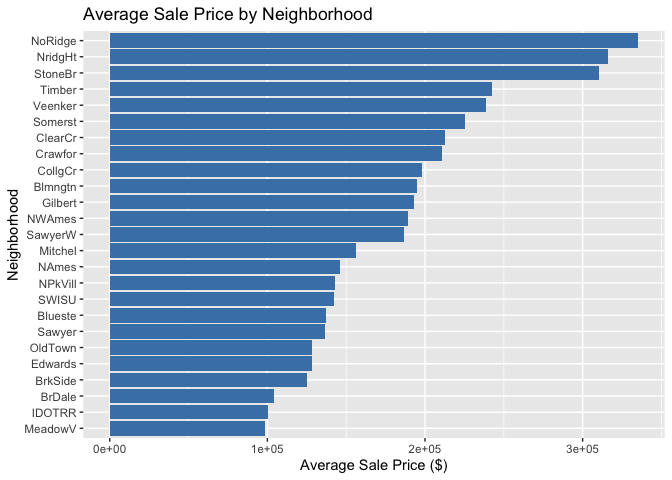
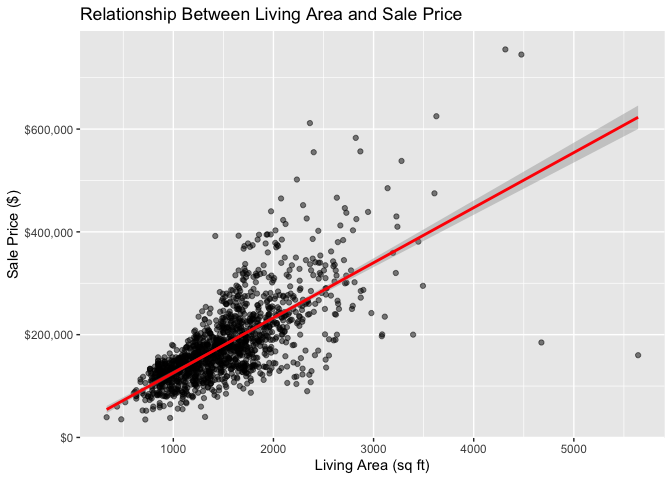
Updated charts

diff --git a/README.md b/README.md
@@ -35,99 +35,10 @@ ames <- read_csv("train.csv")
     ## ℹ Specify the column types or set `show_col_types = FALSE` to quiet this message.
 
 ``` r
-glimpse(ames)
-```
-
-    ## Rows: 1,460
-    ## Columns: 81
-    ## $ Id            <dbl> 1, 2, 3, 4, 5, 6, 7, 8, 9, 10, 11, 12, 13, 14, 15, 16, 1…
-    ## $ MSSubClass    <dbl> 60, 20, 60, 70, 60, 50, 20, 60, 50, 190, 20, 60, 20, 20,…
-    ## $ MSZoning      <chr> "RL", "RL", "RL", "RL", "RL", "RL", "RL", "RL", "RM", "R…
-    ## $ LotFrontage   <dbl> 65, 80, 68, 60, 84, 85, 75, NA, 51, 50, 70, 85, NA, 91, …
-    ## $ LotArea       <dbl> 8450, 9600, 11250, 9550, 14260, 14115, 10084, 10382, 612…
-    ## $ Street        <chr> "Pave", "Pave", "Pave", "Pave", "Pave", "Pave", "Pave", …
-    ## $ Alley         <chr> NA, NA, NA, NA, NA, NA, NA, NA, NA, NA, NA, NA, NA, NA, …
-    ## $ LotShape      <chr> "Reg", "Reg", "IR1", "IR1", "IR1", "IR1", "Reg", "IR1", …
-    ## $ LandContour   <chr> "Lvl", "Lvl", "Lvl", "Lvl", "Lvl", "Lvl", "Lvl", "Lvl", …
-    ## $ Utilities     <chr> "AllPub", "AllPub", "AllPub", "AllPub", "AllPub", "AllPu…
-    ## $ LotConfig     <chr> "Inside", "FR2", "Inside", "Corner", "FR2", "Inside", "I…
-    ## $ LandSlope     <chr> "Gtl", "Gtl", "Gtl", "Gtl", "Gtl", "Gtl", "Gtl", "Gtl", …
-    ## $ Neighborhood  <chr> "CollgCr", "Veenker", "CollgCr", "Crawfor", "NoRidge", "…
-    ## $ Condition1    <chr> "Norm", "Feedr", "Norm", "Norm", "Norm", "Norm", "Norm",…
-    ## $ Condition2    <chr> "Norm", "Norm", "Norm", "Norm", "Norm", "Norm", "Norm", …
-    ## $ BldgType      <chr> "1Fam", "1Fam", "1Fam", "1Fam", "1Fam", "1Fam", "1Fam", …
-    ## $ HouseStyle    <chr> "2Story", "1Story", "2Story", "2Story", "2Story", "1.5Fi…
-    ## $ OverallQual   <dbl> 7, 6, 7, 7, 8, 5, 8, 7, 7, 5, 5, 9, 5, 7, 6, 7, 6, 4, 5,…
-    ## $ OverallCond   <dbl> 5, 8, 5, 5, 5, 5, 5, 6, 5, 6, 5, 5, 6, 5, 5, 8, 7, 5, 5,…
-    ## $ YearBuilt     <dbl> 2003, 1976, 2001, 1915, 2000, 1993, 2004, 1973, 1931, 19…
-    ## $ YearRemodAdd  <dbl> 2003, 1976, 2002, 1970, 2000, 1995, 2005, 1973, 1950, 19…
-    ## $ RoofStyle     <chr> "Gable", "Gable", "Gable", "Gable", "Gable", "Gable", "G…
-    ## $ RoofMatl      <chr> "CompShg", "CompShg", "CompShg", "CompShg", "CompShg", "…
-    ## $ Exterior1st   <chr> "VinylSd", "MetalSd", "VinylSd", "Wd Sdng", "VinylSd", "…
-    ## $ Exterior2nd   <chr> "VinylSd", "MetalSd", "VinylSd", "Wd Shng", "VinylSd", "…
-    ## $ MasVnrType    <chr> "BrkFace", "None", "BrkFace", "None", "BrkFace", "None",…
-    ## $ MasVnrArea    <dbl> 196, 0, 162, 0, 350, 0, 186, 240, 0, 0, 0, 286, 0, 306, …
-    ## $ ExterQual     <chr> "Gd", "TA", "Gd", "TA", "Gd", "TA", "Gd", "TA", "TA", "T…
-    ## $ ExterCond     <chr> "TA", "TA", "TA", "TA", "TA", "TA", "TA", "TA", "TA", "T…
-    ## $ Foundation    <chr> "PConc", "CBlock", "PConc", "BrkTil", "PConc", "Wood", "…
-    ## $ BsmtQual      <chr> "Gd", "Gd", "Gd", "TA", "Gd", "Gd", "Ex", "Gd", "TA", "T…
-    ## $ BsmtCond      <chr> "TA", "TA", "TA", "Gd", "TA", "TA", "TA", "TA", "TA", "T…
-    ## $ BsmtExposure  <chr> "No", "Gd", "Mn", "No", "Av", "No", "Av", "Mn", "No", "N…
-    ## $ BsmtFinType1  <chr> "GLQ", "ALQ", "GLQ", "ALQ", "GLQ", "GLQ", "GLQ", "ALQ", …
-    ## $ BsmtFinSF1    <dbl> 706, 978, 486, 216, 655, 732, 1369, 859, 0, 851, 906, 99…
-    ## $ BsmtFinType2  <chr> "Unf", "Unf", "Unf", "Unf", "Unf", "Unf", "Unf", "BLQ", …
-    ## $ BsmtFinSF2    <dbl> 0, 0, 0, 0, 0, 0, 0, 32, 0, 0, 0, 0, 0, 0, 0, 0, 0, 0, 0…
-    ## $ BsmtUnfSF     <dbl> 150, 284, 434, 540, 490, 64, 317, 216, 952, 140, 134, 17…
-    ## $ TotalBsmtSF   <dbl> 856, 1262, 920, 756, 1145, 796, 1686, 1107, 952, 991, 10…
-    ## $ Heating       <chr> "GasA", "GasA", "GasA", "GasA", "GasA", "GasA", "GasA", …
-    ## $ HeatingQC     <chr> "Ex", "Ex", "Ex", "Gd", "Ex", "Ex", "Ex", "Ex", "Gd", "E…
-    ## $ CentralAir    <chr> "Y", "Y", "Y", "Y", "Y", "Y", "Y", "Y", "Y", "Y", "Y", "…
-    ## $ Electrical    <chr> "SBrkr", "SBrkr", "SBrkr", "SBrkr", "SBrkr", "SBrkr", "S…
-    ## $ `1stFlrSF`    <dbl> 856, 1262, 920, 961, 1145, 796, 1694, 1107, 1022, 1077, …
-    ## $ `2ndFlrSF`    <dbl> 854, 0, 866, 756, 1053, 566, 0, 983, 752, 0, 0, 1142, 0,…
-    ## $ LowQualFinSF  <dbl> 0, 0, 0, 0, 0, 0, 0, 0, 0, 0, 0, 0, 0, 0, 0, 0, 0, 0, 0,…
-    ## $ GrLivArea     <dbl> 1710, 1262, 1786, 1717, 2198, 1362, 1694, 2090, 1774, 10…
-    ## $ BsmtFullBath  <dbl> 1, 0, 1, 1, 1, 1, 1, 1, 0, 1, 1, 1, 1, 0, 1, 0, 1, 0, 1,…
-    ## $ BsmtHalfBath  <dbl> 0, 1, 0, 0, 0, 0, 0, 0, 0, 0, 0, 0, 0, 0, 0, 0, 0, 0, 0,…
-    ## $ FullBath      <dbl> 2, 2, 2, 1, 2, 1, 2, 2, 2, 1, 1, 3, 1, 2, 1, 1, 1, 2, 1,…
-    ## $ HalfBath      <dbl> 1, 0, 1, 0, 1, 1, 0, 1, 0, 0, 0, 0, 0, 0, 1, 0, 0, 0, 1,…
-    ## $ BedroomAbvGr  <dbl> 3, 3, 3, 3, 4, 1, 3, 3, 2, 2, 3, 4, 2, 3, 2, 2, 2, 2, 3,…
-    ## $ KitchenAbvGr  <dbl> 1, 1, 1, 1, 1, 1, 1, 1, 2, 2, 1, 1, 1, 1, 1, 1, 1, 2, 1,…
-    ## $ KitchenQual   <chr> "Gd", "TA", "Gd", "Gd", "Gd", "TA", "Gd", "TA", "TA", "T…
-    ## $ TotRmsAbvGrd  <dbl> 8, 6, 6, 7, 9, 5, 7, 7, 8, 5, 5, 11, 4, 7, 5, 5, 5, 6, 6…
-    ## $ Functional    <chr> "Typ", "Typ", "Typ", "Typ", "Typ", "Typ", "Typ", "Typ", …
-    ## $ Fireplaces    <dbl> 0, 1, 1, 1, 1, 0, 1, 2, 2, 2, 0, 2, 0, 1, 1, 0, 1, 0, 0,…
-    ## $ FireplaceQu   <chr> NA, "TA", "TA", "Gd", "TA", NA, "Gd", "TA", "TA", "TA", …
-    ## $ GarageType    <chr> "Attchd", "Attchd", "Attchd", "Detchd", "Attchd", "Attch…
-    ## $ GarageYrBlt   <dbl> 2003, 1976, 2001, 1998, 2000, 1993, 2004, 1973, 1931, 19…
-    ## $ GarageFinish  <chr> "RFn", "RFn", "RFn", "Unf", "RFn", "Unf", "RFn", "RFn", …
-    ## $ GarageCars    <dbl> 2, 2, 2, 3, 3, 2, 2, 2, 2, 1, 1, 3, 1, 3, 1, 2, 2, 2, 2,…
-    ## $ GarageArea    <dbl> 548, 460, 608, 642, 836, 480, 636, 484, 468, 205, 384, 7…
-    ## $ GarageQual    <chr> "TA", "TA", "TA", "TA", "TA", "TA", "TA", "TA", "Fa", "G…
-    ## $ GarageCond    <chr> "TA", "TA", "TA", "TA", "TA", "TA", "TA", "TA", "TA", "T…
-    ## $ PavedDrive    <chr> "Y", "Y", "Y", "Y", "Y", "Y", "Y", "Y", "Y", "Y", "Y", "…
-    ## $ WoodDeckSF    <dbl> 0, 298, 0, 0, 192, 40, 255, 235, 90, 0, 0, 147, 140, 160…
-    ## $ OpenPorchSF   <dbl> 61, 0, 42, 35, 84, 30, 57, 204, 0, 4, 0, 21, 0, 33, 213,…
-    ## $ EnclosedPorch <dbl> 0, 0, 0, 272, 0, 0, 0, 228, 205, 0, 0, 0, 0, 0, 176, 0, …
-    ## $ `3SsnPorch`   <dbl> 0, 0, 0, 0, 0, 320, 0, 0, 0, 0, 0, 0, 0, 0, 0, 0, 0, 0, …
-    ## $ ScreenPorch   <dbl> 0, 0, 0, 0, 0, 0, 0, 0, 0, 0, 0, 0, 176, 0, 0, 0, 0, 0, …
-    ## $ PoolArea      <dbl> 0, 0, 0, 0, 0, 0, 0, 0, 0, 0, 0, 0, 0, 0, 0, 0, 0, 0, 0,…
-    ## $ PoolQC        <chr> NA, NA, NA, NA, NA, NA, NA, NA, NA, NA, NA, NA, NA, NA, …
-    ## $ Fence         <chr> NA, NA, NA, NA, NA, "MnPrv", NA, NA, NA, NA, NA, NA, NA,…
-    ## $ MiscFeature   <chr> NA, NA, NA, NA, NA, "Shed", NA, "Shed", NA, NA, NA, NA, …
-    ## $ MiscVal       <dbl> 0, 0, 0, 0, 0, 700, 0, 350, 0, 0, 0, 0, 0, 0, 0, 0, 700,…
-    ## $ MoSold        <dbl> 2, 5, 9, 2, 12, 10, 8, 11, 4, 1, 2, 7, 9, 8, 5, 7, 3, 10…
-    ## $ YrSold        <dbl> 2008, 2007, 2008, 2006, 2008, 2009, 2007, 2009, 2008, 20…
-    ## $ SaleType      <chr> "WD", "WD", "WD", "WD", "WD", "WD", "WD", "WD", "WD", "W…
-    ## $ SaleCondition <chr> "Normal", "Normal", "Normal", "Abnorml", "Normal", "Norm…
-    ## $ SalePrice     <dbl> 208500, 181500, 223500, 140000, 250000, 143000, 307000, …
-
-``` r
 ames_clean <- ames %>%
-  select(SalePrice, GrLivArea, OverallQual, YearBuilt, Neighborhood, GarageCars) %>%
-  drop_na()
-
-ames_clean$Neighborhood <- as.factor(ames_clean$Neighborhood)
+select(SalePrice, GrLivArea, OverallQual, YearBuilt, Neighborhood, GarageCars) %>%
+drop_na() %>%
+mutate(Neighborhood = factor(Neighborhood))
 
 glimpse(ames_clean)
 ```
@@ -169,6 +80,65 @@ Converting Neighborhood to a factor for categorical analysis.
 
 Summary statistics:
 
+``` r
+summary_stats <- ames_clean %>%
+  summarise(
+    SalePrice_min = min(SalePrice),
+    SalePrice_q1 = quantile(SalePrice, 0.25),
+    SalePrice_median = median(SalePrice),
+    SalePrice_mean = mean(SalePrice),
+    SalePrice_q3 = quantile(SalePrice, 0.75),
+    SalePrice_max = max(SalePrice),
+
+    GrLivArea_min = min(GrLivArea),
+    GrLivArea_q1 = quantile(GrLivArea, 0.25),
+    GrLivArea_median = median(GrLivArea),
+    GrLivArea_mean = mean(GrLivArea),
+    GrLivArea_q3 = quantile(GrLivArea, 0.75),
+    GrLivArea_max = max(GrLivArea),
+
+    OverallQual_min = min(OverallQual),
+    OverallQual_q1 = quantile(OverallQual, 0.25),
+    OverallQual_median = median(OverallQual),
+    OverallQual_mean = mean(OverallQual),
+    OverallQual_q3 = quantile(OverallQual, 0.75),
+    OverallQual_max = max(OverallQual),
+
+    YearBuilt_min = min(YearBuilt),
+    YearBuilt_q1 = quantile(YearBuilt, 0.25),
+    YearBuilt_median = median(YearBuilt),
+    YearBuilt_mean = mean(YearBuilt),
+    YearBuilt_q3 = quantile(YearBuilt, 0.75),
+    YearBuilt_max = max(YearBuilt),
+
+    GarageCars_min = min(GarageCars),
+    GarageCars_q1 = quantile(GarageCars, 0.25),
+    GarageCars_median = median(GarageCars),
+    GarageCars_mean = mean(GarageCars),
+    GarageCars_q3 = quantile(GarageCars, 0.75),
+    GarageCars_max = max(GarageCars)
+  )
+
+summary_stats
+```
+
+    ## # A tibble: 1 × 30
+    ##   SalePrice_min SalePrice_q1 SalePrice_median SalePrice_mean SalePrice_q3
+    ##           <dbl>        <dbl>            <dbl>          <dbl>        <dbl>
+    ## 1         34900       129975           163000        180921.       214000
+    ## # ℹ 25 more variables: SalePrice_max <dbl>, GrLivArea_min <dbl>,
+    ## #   GrLivArea_q1 <dbl>, GrLivArea_median <dbl>, GrLivArea_mean <dbl>,
+    ## #   GrLivArea_q3 <dbl>, GrLivArea_max <dbl>, OverallQual_min <dbl>,
+    ## #   OverallQual_q1 <dbl>, OverallQual_median <dbl>, OverallQual_mean <dbl>,
+    ## #   OverallQual_q3 <dbl>, OverallQual_max <dbl>, YearBuilt_min <dbl>,
+    ## #   YearBuilt_q1 <dbl>, YearBuilt_median <dbl>, YearBuilt_mean <dbl>,
+    ## #   YearBuilt_q3 <dbl>, YearBuilt_max <dbl>, GarageCars_min <dbl>, …
+
+``` r
+summary_table <- summary_stats %>%
+  pivot_longer(everything(), names_to = "Statistic", values_to = "Value")
+```
+
 | Variable          | Min    | 1st Qu. | Median  | Mean    | 3rd Qu. | Max     |
 |-------------------|--------|---------|---------|---------|---------|---------|
 | SalePrice (\$)    | 34,900 | 129,975 | 163,000 | 180,921 | 214,000 | 755,000 |
@@ -179,8 +149,7 @@ Summary statistics:
 
 ## Exploration & Findings
 
-Question 1: Does the size of a house (GrLivArea) strongly affect its
-sale price?
+#### Question 1: Does the size of a house (GrLivArea) strongly affect its sale price?
 
 Scatterplots with regression lines show a clear positive correlation:
 larger homes generally sell for higher prices. However, a few outliers
@@ -188,26 +157,28 @@ exist (very large homes with lower prices), highlighting the importance
 of considering additional factors like location or quality.
 
 ``` r
-ggplot(ames_clean, aes(x = GrLivArea, y = SalePrice)) +
+ggplot(ames_clean, aes(GrLivArea, SalePrice)) +
   geom_point(alpha = 0.5) +
   geom_smooth(method = "lm", color = "red") +
-  labs(title = "Relationship Between Living Area and Sale Price",
-       x = "Living Area (sq ft)",
-       y = "Sale Price ($)")
+  scale_y_continuous(labels = dollar) +
+  labs(
+    title = "Relationship Between Living Area and Sale Price",
+    x = "Living Area (sq ft)",
+    y = "Sale Price ($)"
+  )
 ```
 
     ## `geom_smooth()` using formula = 'y ~ x'
 
-![](README_files/figure-gfm/unnamed-chunk-2-1.png)<!-- -->
+![](README_files/figure-gfm/unnamed-chunk-3-1.png)<!-- -->
 
 Observation: GrLivArea has a strong positive linear relationship with
 SalePrice, though outliers suggest caution in using size alone for
 predictions.
 
-Question 2: Do certain neighborhoods have higher average sale prices
-than others?
+#### Question 2: Do certain neighborhoods have higher average sale prices than others?
 
-Aggregating by neighborhood shows clear differences: NoRidge, CollgCr,
+Aggregating by neighborhood shows clear differences: NoRidge, NridgtHt,
 and StoneBr tend to have the highest average sale prices, whereas older
 or less central neighborhoods like NAmes and OldTown tend to have lower
 average prices.
@@ -219,18 +190,21 @@ ames_clean %>%
   ggplot(aes(x = reorder(Neighborhood, AveragePrice), y = AveragePrice)) +
   geom_col(fill = "steelblue") +
   coord_flip() +
-  labs(title = "Average Sale Price by Neighborhood",
-       x = "Neighborhood",
-       y = "Average Sale Price ($)")
+  scale_y_continuous(labels = dollar) +
+  labs(
+    title = "Average Sale Price by Neighborhood",
+    x = "Neighborhood",
+    y = "Average Sale Price ($)"
+  )
 ```
 
-![](README_files/figure-gfm/unnamed-chunk-3-1.png)<!-- -->
+![](README_files/figure-gfm/unnamed-chunk-4-1.png)<!-- -->
 
 Observation: Location is a strong predictor of price. Even homes of
 similar size and quality can vary greatly in price depending on the
 neighborhood.
 
-Question 3: Does overall quality impact price?
+#### Question 3: Does overall quality impact price?
 
 Boxplots of SalePrice vs OverallQual indicate a near-linear increase in
 median price as quality improves. Houses rated 9–10 command
@@ -239,6 +213,7 @@ significantly higher prices than lower-rated homes.
 ``` r
 ggplot(ames_clean, aes(x = as.factor(OverallQual), y = SalePrice)) +
   geom_boxplot(fill = "lightgreen") +
+  scale_y_continuous(labels = dollar) +
   labs(
     title = "Sale Price by Overall Quality",
     x = "Overall Quality (1 = Poor, 10 = Excellent)",
@@ -246,12 +221,12 @@ ggplot(ames_clean, aes(x = as.factor(OverallQual), y = SalePrice)) +
   )
 ```
 
-![](README_files/figure-gfm/unnamed-chunk-4-1.png)<!-- -->
+![](README_files/figure-gfm/unnamed-chunk-5-1.png)<!-- -->
 
 Insight: Quality is a key factor and interacts with both size and
 neighborhood for predictive modeling.
 
-Question 4: Are garages influential in pricing?
+#### Question 4: Are garages influential in pricing?
 
 Homes with more garage capacity tend to have higher prices, though this
 effect is smaller than living area or quality. Some homes without
@@ -260,13 +235,16 @@ quality) are strong.
 
 ``` r
 ggplot(ames_clean, aes(x = factor(GarageCars), y = SalePrice)) +
-  geom_boxplot(fill = "lightgreen") +
-  labs(title = "Sale Price by Garage Size",
-       x = "Garage Capacity (Cars)",
-       y = "Sale Price ($)")
+  geom_boxplot(fill = "red") +
+  scale_y_continuous(labels = dollar) +
+  labs(
+    title = "Sale Price by Garage Size",
+    x = "Garage Capacity (Cars)",
+    y = "Sale Price ($)"
+  )
 ```
 
-![](README_files/figure-gfm/unnamed-chunk-5-1.png)<!-- -->
+![](README_files/figure-gfm/unnamed-chunk-6-1.png)<!-- -->
 
 Observation: Garage size is moderately correlated with price, acting as
 a secondary factor.
